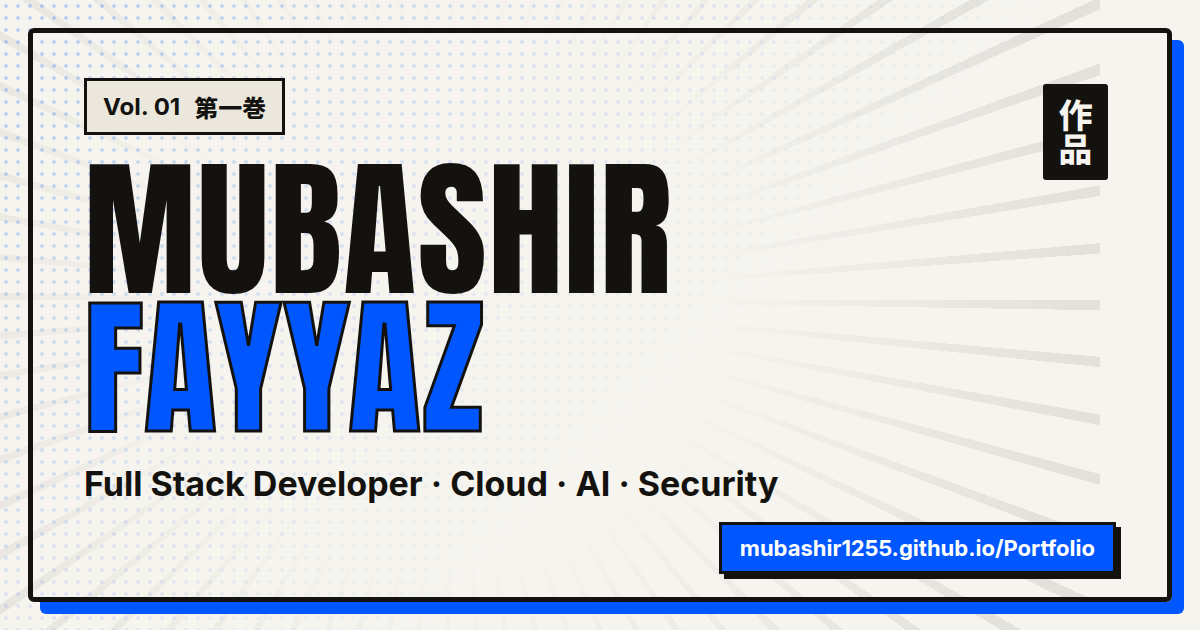
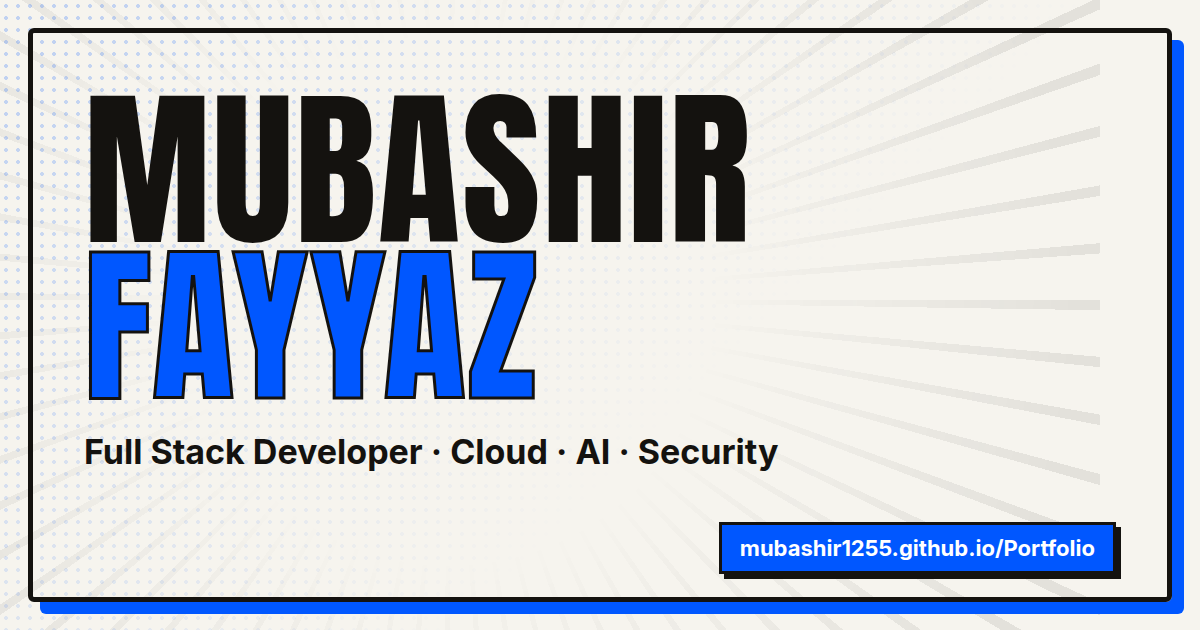
Drop Vol. 01 and Japanese labels; new full-width finale
Removes the Vol. 01 tag (hero and nav), the vertical Japanese chapter
labels, episode kanji and the Noto Sans JP subset. The finale now reads
'Further info will be revealed soon' (soon in blue), sized from the
panel width so it spans it edge to edge. OG image redrawn without them.
Play-mode effects are unchanged.

Changed region(s): [[0.0617, 0.1206, 0.6475, 0.8143], [0.8633, 0.1206, 0.925, 0.3016]]

diff --git a/src/styles/manga.css b/src/styles/manga.css
@@ -6,14 +6,6 @@
  * Every colour, font and size lives in the tokens below; components only reference tokens.
  */
 
-@font-face {
-  font-family: "Noto Sans JP Labels";
-  /* Subset to the few label characters used on the site (see src/assets/fonts). */
-  src: url("../assets/fonts/noto-sans-jp-labels.woff2") format("woff2");
-  font-weight: 800;
-  font-display: swap;
-}
-
 @theme {
   /* Paper & ink */
   --color-paper: #f6f4ee;
@@ -34,7 +26,6 @@
 
   --font-display: "Anton", "Impact", "Arial Narrow", sans-serif;
   --font-sans: "Inter Variable", ui-sans-serif, system-ui, sans-serif;
-  --font-jp: "Noto Sans JP Labels", "Hiragino Sans", "Yu Gothic", sans-serif;
 }
 
 :root {
@@ -99,11 +90,6 @@ a {
     letter-spacing: 0.14em;
     text-transform: uppercase;
     color: var(--color-accent);
-  }
-  .jp {
-    font-family: var(--font-jp);
-    font-weight: 800;
-    letter-spacing: 0.05em;
   }
   .prose-ink {
     color: var(--color-ink-soft);
@@ -192,7 +178,7 @@ a {
 @layer components {
   .chapter-head {
     display: grid;
-    grid-template-columns: auto 1fr auto;
+    grid-template-columns: auto 1fr;
     align-items: end;
     gap: 0.75rem 1.25rem;
     border-bottom: var(--line) solid var(--color-ink);
@@ -210,15 +196,6 @@ a {
     text-transform: uppercase;
     font-size: clamp(2rem, 6vw, 3.5rem);
     line-height: 0.95;
-  }
-  .chapter-head__jp {
-    align-self: start;
-    writing-mode: vertical-rl;
-    background: var(--color-ink);
-    color: var(--color-paper);
-    padding: 0.6rem 0.35rem;
-    font-size: 1.25rem;
-    border-radius: 2px;
   }
 }
 
@@ -988,27 +965,32 @@ sakuga-tabs {
   }
 }
 
-/* ── Finale: "To be continued… つづく" ── */
+/* ── Finale: "Further info will be revealed soon" ── */
 @layer components {
   .finale {
     overflow: hidden;
-    display: flex;
-    flex-wrap: wrap;
-    align-items: baseline;
-    justify-content: space-between;
-    gap: 0.5rem 2rem;
-    padding: clamp(2rem, 6vw, 4rem) !important;
+    container-type: inline-size; /* the text is sized from this panel's width */
+    padding: clamp(1.75rem, 5vw, 3.5rem) !important;
   }
   .finale__lines {
     background: repeating-conic-gradient(from 0deg at 50% 50%, #f6f4ee 0deg 0.9deg, transparent 0.9deg 5deg);
     opacity: 0.1;
   }
+  /* Fills the panel edge to edge: the phrase is 14.37em wide in Anton (one line),
+     each half about 7.1em (two lines on narrow panels). Re-measure if the words change. */
   .finale__text {
-    font-size: clamp(2.5rem, 9vw, 6rem);
+    margin: 0;
+    font-size: 6.85cqi;
+    line-height: 1;
+    white-space: nowrap;
   }
-  .finale__jp {
-    font-size: clamp(2.5rem, 8vw, 5rem);
-    color: var(--color-accent-night);
+  @container (max-width: 640px) {
+    .finale__text {
+      font-size: 13.9cqi;
+    }
+    .finale__line {
+      display: block;
+    }
   }
 }
 

diff --git a/README.md b/README.md
@@ -2,7 +2,7 @@
 
 https://mubashir1255.github.io/Portfolio/  click here to open my Portfolio
 
-My personal portfolio, styled as a manga volume: comic panels, halftone screentone and numbered chapters
+My personal portfolio in a comic-panel style: thick ink panels, halftone dots and numbered chapters
 (Experience, Projects, Skills, Journey, Contact). It's quiet by default. The opt-in **Play mode** in the nav adds
 anime-style effects to buttons, tabs and toasts, using [sakuga-vfx](https://github.com/finktheartist/sakuga-vfx) (MIT).
 
@@ -59,4 +59,4 @@ The contact form posts to Web3Forms. Set `PUBLIC_WEB3FORMS_ACCESS_KEY` in `.env.
 ## Credits
 
 UI effects: [sakuga-vfx](https://github.com/finktheartist/sakuga-vfx) by finktheartist, MIT (`public/sakuga-vfx/LICENSE`).
-Fonts: Anton, Inter, Noto Sans JP (SIL Open Font License).
+Fonts: Anton, Inter (SIL Open Font License).
